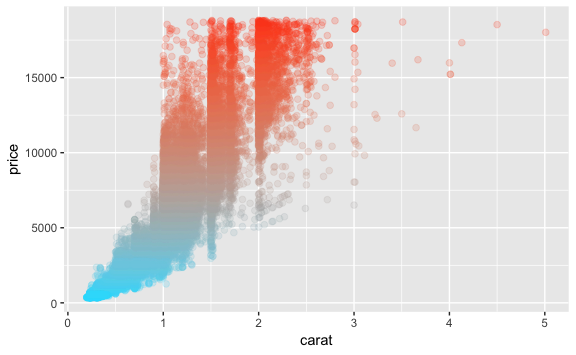
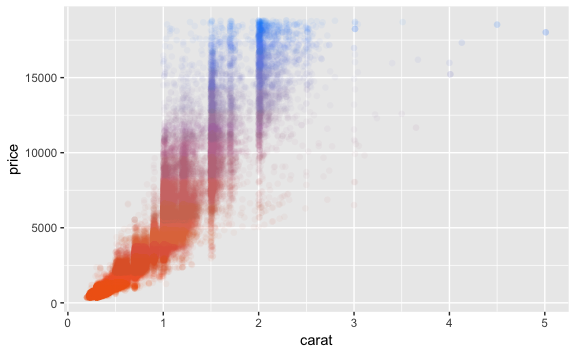
kernel alpha

diff --git a/README.md b/README.md
@@ -25,7 +25,7 @@ This is the function motivated by Jackson
 (2017).
 
 ``` r
-gg_scatter(diamonds, mapping = aes(x = carat, y = price), size = 2, alpha = .2)
+gg_scatter(diamonds, mapping = aes(x = carat, y = price), alpha_focus = TRUE, size = 2, shape = 16)
 ```
 
 <img src="README_files/figure-gfm/unnamed-chunk-3-1.png" width="70%" style="display: block; margin: auto;" />
